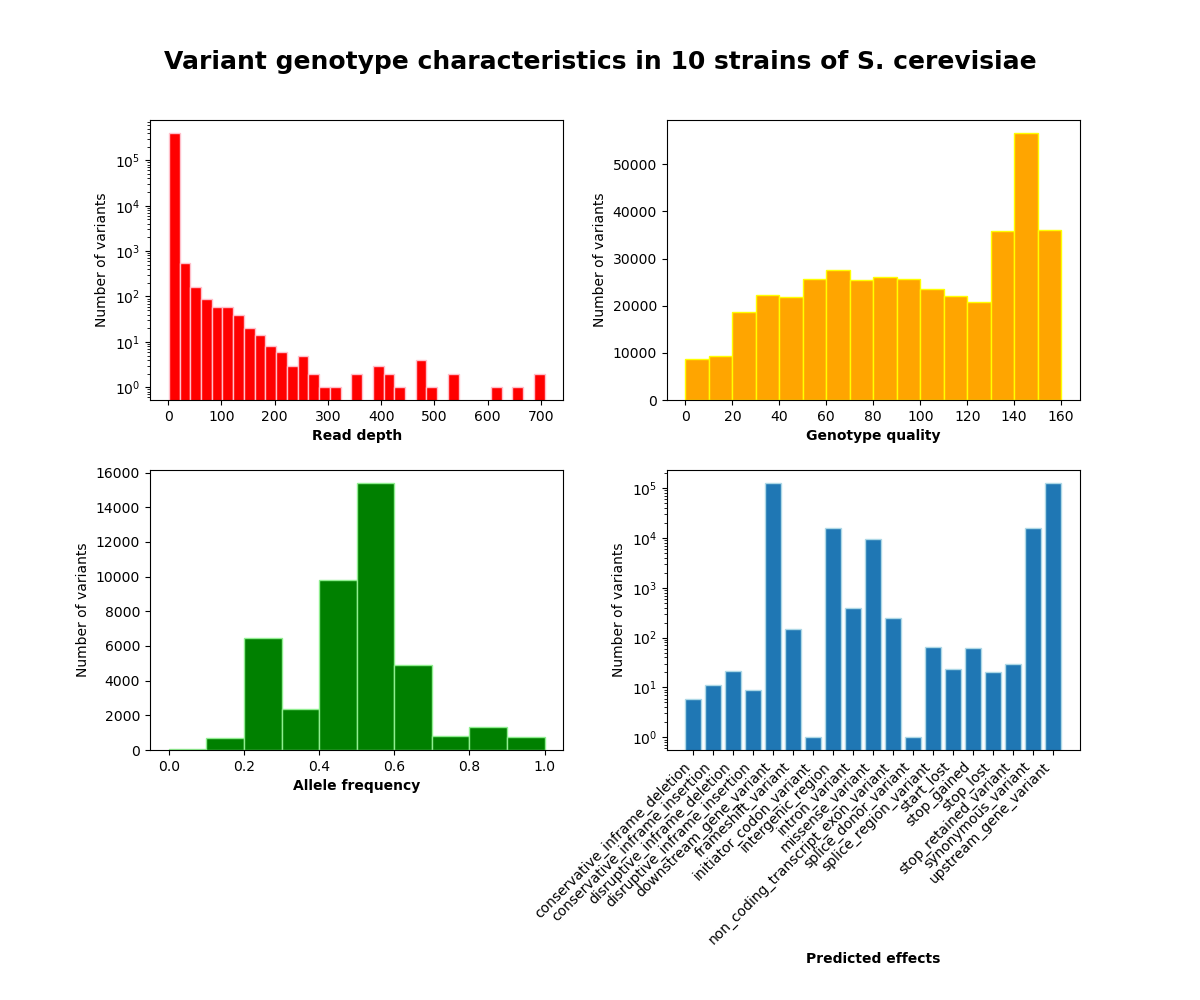
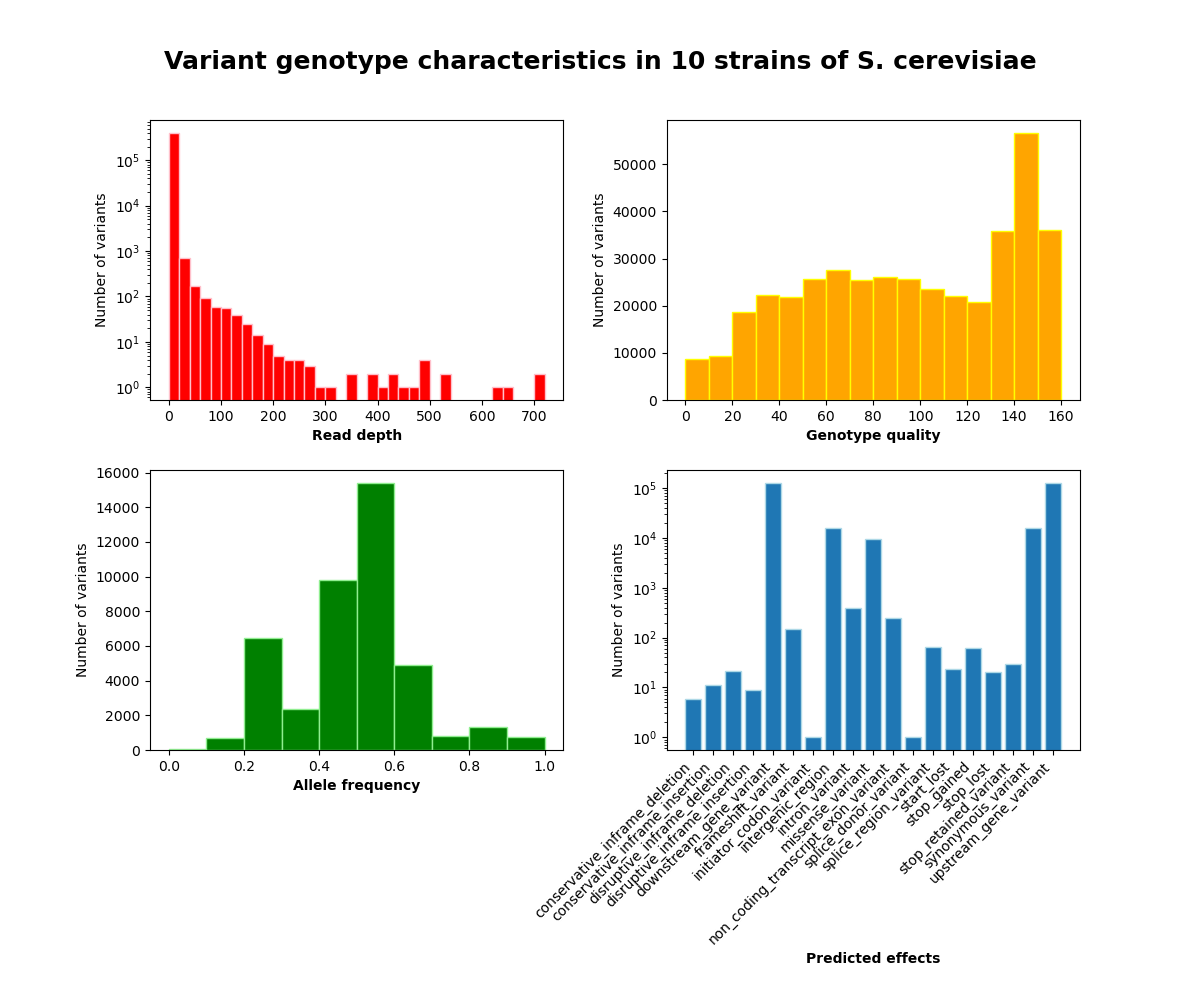
a little image formating

Changed region(s): [[0.1233, 0.248, 0.4625, 0.434]]

diff --git a/week3-homework/hw3.py b/week3-homework/hw3.py
@@ -95,7 +95,8 @@ fig.suptitle("Variant genotype characteristics in 10 strains of S. cerevisiae",
 				fontsize = 18, y = 0.95, fontweight = 'bold')
 
 # read depths
-ax[0,0].hist(dp_list_clean, bins = 35, color = 'red', ec = 'pink')
+ax[0,0].hist(dp_list_clean, color = 'red', ec = 'pink', 
+				bins=np.arange(0, max(dp_list_clean) + 20, 20))
 ax[0,0].set_yscale('log')
 ax[0,0].set_xlabel('Read depth', fontweight = 'bold')
 ax[0,0].set_ylabel('Number of variants')
